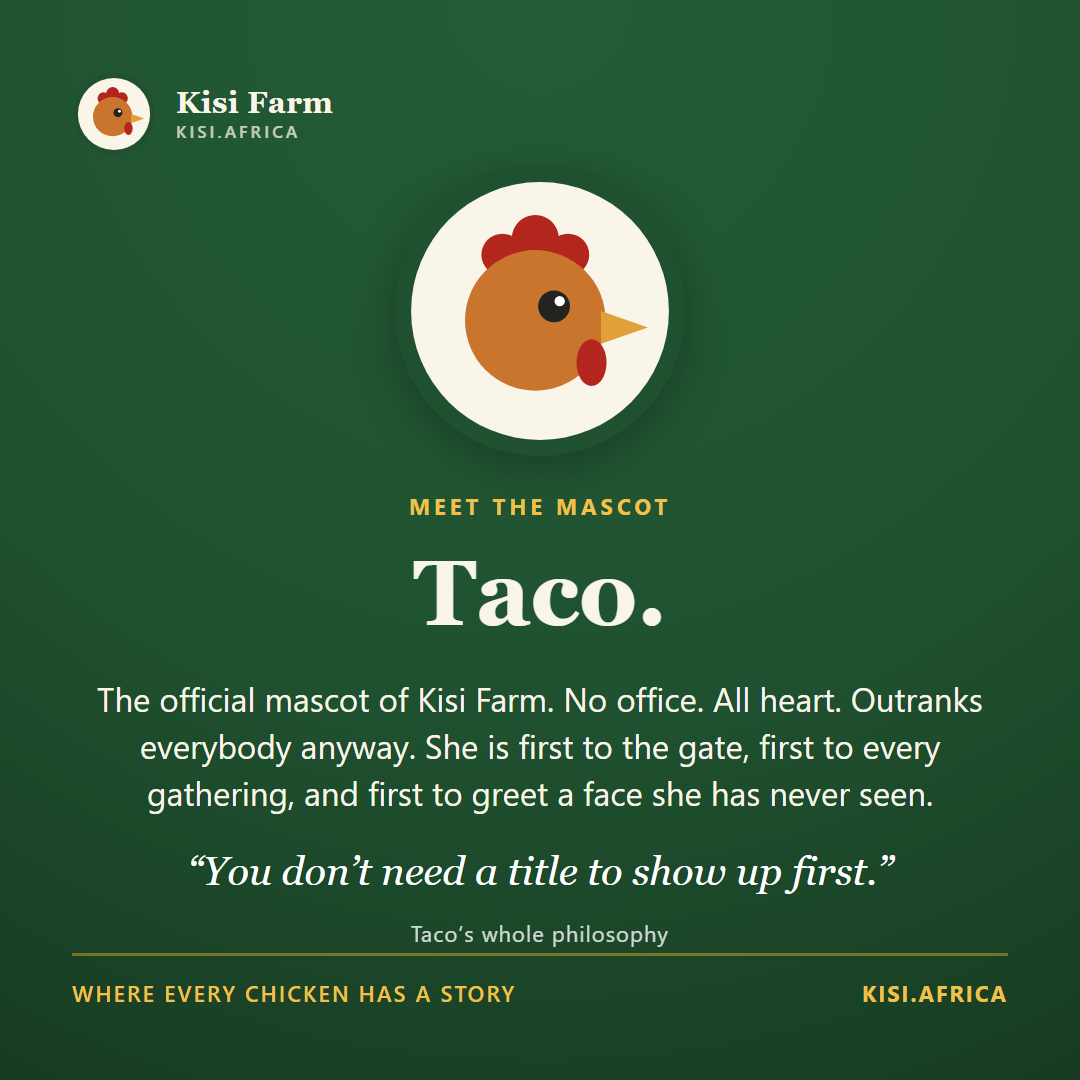
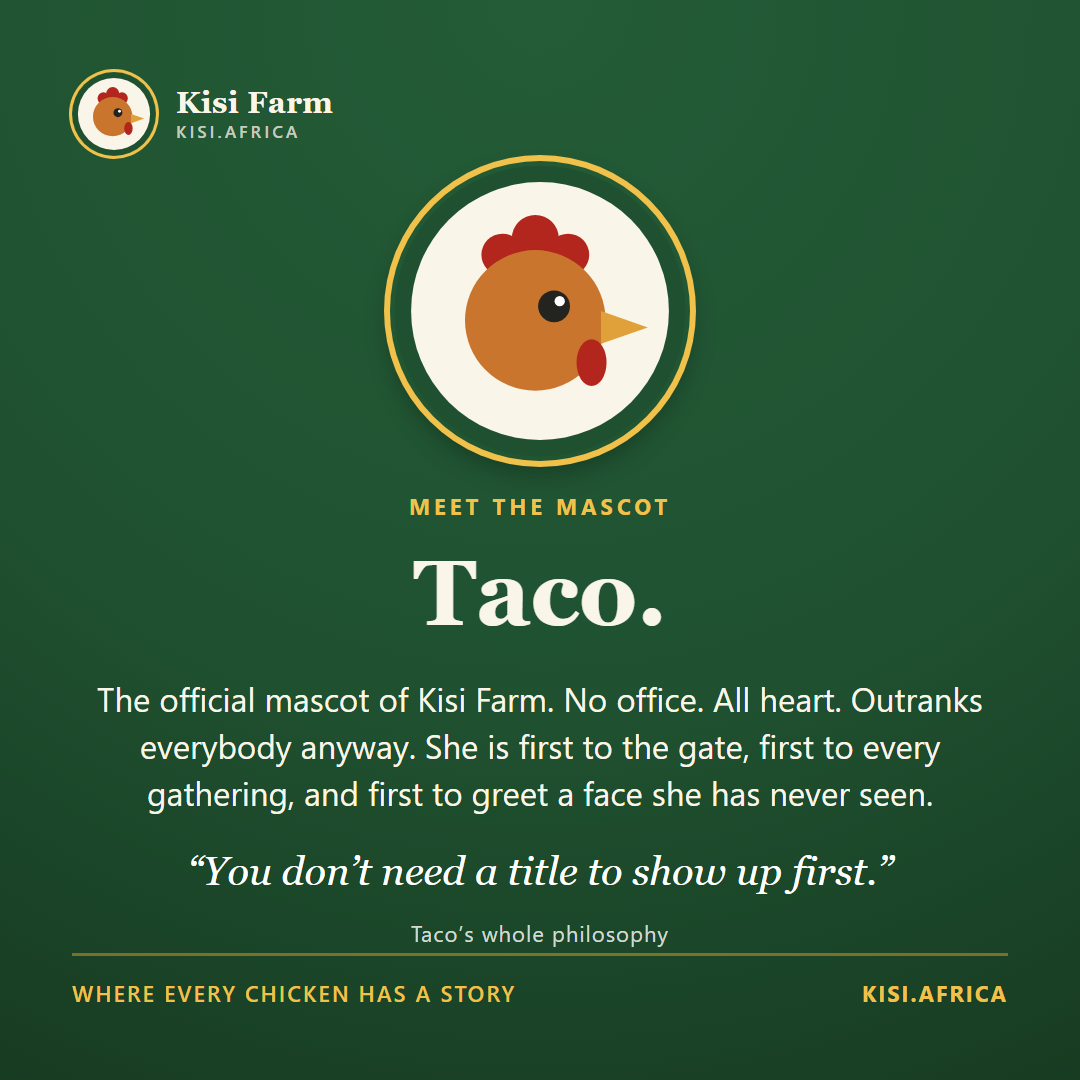
fix(social): crisp Taco seal on the green cards
Taco's seal ring is green, so on the green (t-state) cards it blended
into the background and lost its edge. Add a gold ring to the logo mark
(header logo + the post 03 centerpiece) so it reads as a defined badge.
Green cards re-rendered.

diff --git a/social/posts/03-meet-taco.html b/social/posts/03-meet-taco.html
@@ -4,7 +4,7 @@
 <meta charset="utf-8">
 <link rel="stylesheet" href="../assets/post.css">
 <style>
-  .taco-mark { width: 300px; height: 300px; margin: 0 auto 30px; display: block; filter: drop-shadow(0 10px 22px rgba(0,0,0,0.28)); }
+  .taco-mark { width: 300px; height: 300px; margin: 0 auto 30px; display: block; border-radius: 50%; box-shadow: 0 0 0 6px var(--gold-soft), 0 12px 26px rgba(0,0,0,0.30); }
   .t-state .body-area { text-align: center; }
   .t-state .kicker { text-align: center; }
 </style>

diff --git a/social/assets/post.css b/social/assets/post.css
@@ -141,6 +141,8 @@ html, body { margin: 0; padding: 0; }
 .t-state .rule { background: var(--gold); }
 .t-state .foot { color: var(--gold-soft); }
 .t-state .pull { color: #fff; }
+/* Taco's seal ring is green, so on the green field it needs a crisp edge */
+.t-state .crest { border-radius: 50%; box-shadow: 0 0 0 3px var(--gold-soft); }
 
 /* =========================================================
    THEME: portrait (leaders) · eggshell, editorial
